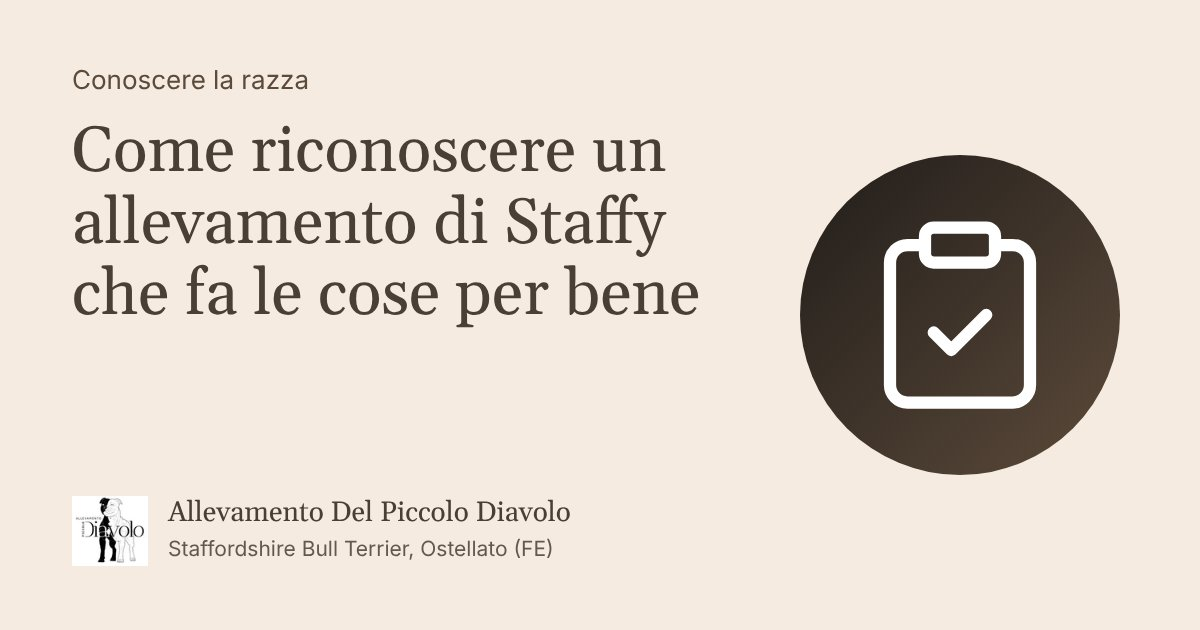
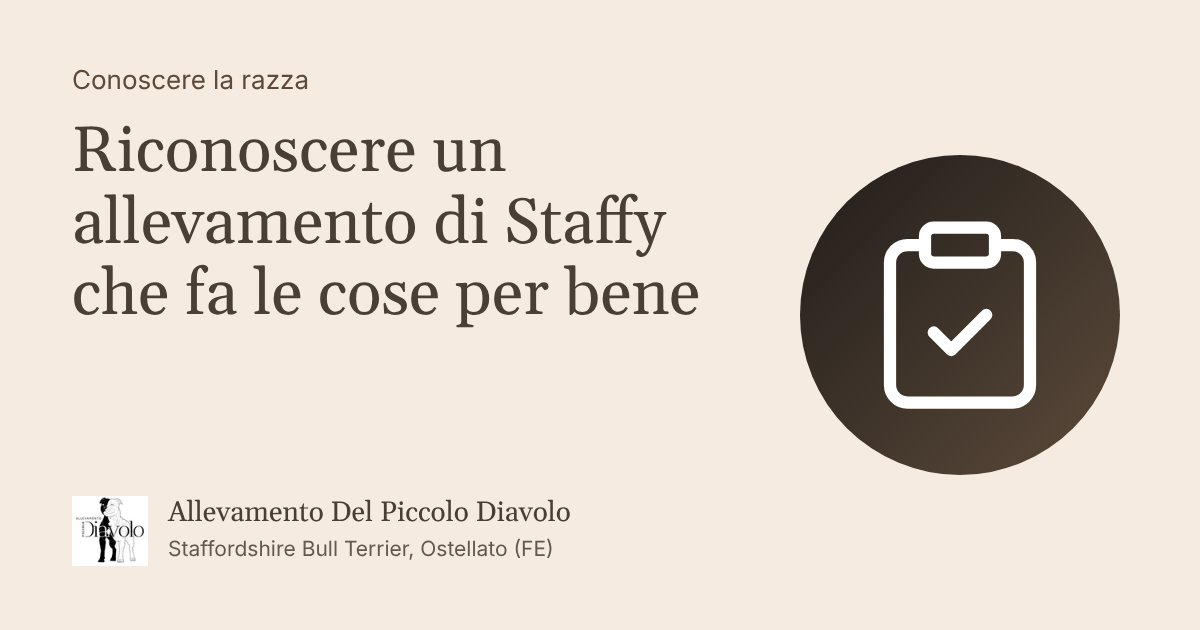
Guida allevamenti: titolo per Google più corto (IT «Riconoscere un allevamento di Staffy che fa le cose per bene», EN/DE allineati), schede di condivisione rifatte
Claude-Session: https://claude.ai/code/session_01Wpbf6UX9jwa1fzaGtM5hoN

Changed region(s): [[0.0617, 0.181, 0.555, 0.2714]]

diff --git a/content/it/come-scegliere-allevamento-staffordshire-bull-terrier.md b/content/it/come-scegliere-allevamento-staffordshire-bull-terrier.md
@@ -1,16 +1,16 @@
 ---
 title: "Come riconoscere un allevamento Staffordshire Bull Terrier che fa le cose per bene"
-titleSeo: "Come riconoscere un allevamento di Staffy che fa le cose per bene"
+titleSeo: "Riconoscere un allevamento di Staffy che fa le cose per bene"
 articolo: true
 translationKey: "come-scegliere"
 image: "/images/blog/cucciolata-erba.avif"
 og_image: "/images/og/schede/it/come-scegliere-allevamento-staffordshire-bull-terrier.jpg"
-og_image_alt: "Come riconoscere un allevamento di Staffy che fa le cose per bene — Allevamento Del Piccolo Diavolo"
+og_image_alt: "Riconoscere un allevamento di Staffy che fa le cose per bene — Allevamento Del Piccolo Diavolo"
 thumb: "/images/blog/icone/come-scegliere-allevamento-staffordshire-bull-terrier.webp"
 description: "Otto criteri per riconoscere un allevamento Staffordshire Bull Terrier serio, ognuno con il modo di verificarlo. Con i nostri documenti come esempio."
 slug: "come-scegliere-allevamento-staffordshire-bull-terrier"
 date: 2026-01-18
-lastmod: 2026-10-17
+lastmod: 2026-10-18
 ---
 
 

diff --git a/content/en/how-to-choose-a-staffordshire-bull-terrier-breeder.md b/content/en/how-to-choose-a-staffordshire-bull-terrier-breeder.md
@@ -1,16 +1,16 @@
 ---
 title: "How to recognise a Staffordshire Bull Terrier breeder who does things properly"
-titleSeo: "How to recognise a Staffy breeder who does things properly"
+titleSeo: "Recognising a Staffy breeder who does things properly"
 articolo: true
 translationKey: "come-scegliere"
 image: "/images/blog/cucciolata-erba.avif"
 og_image: "/images/og/schede/en/how-to-choose-a-staffordshire-bull-terrier-breeder.jpg"
-og_image_alt: "How to recognise a Staffy breeder who does things properly — Allevamento Del Piccolo Diavolo"
+og_image_alt: "Recognising a Staffy breeder who does things properly — Allevamento Del Piccolo Diavolo"
 thumb: "/images/blog/icone/come-scegliere-allevamento-staffordshire-bull-terrier.webp"
 description: "Eight criteria for recognising a serious Staffordshire Bull Terrier breeder, each with the way to verify it. With our own documents as the worked example."
 slug: "how-to-choose-a-staffordshire-bull-terrier-breeder"
 date: 2026-01-18
-lastmod: 2026-10-17
+lastmod: 2026-10-18
 ---
 
 

diff --git a/content/de/wie-waehlt-man-eine-staffordshire-bull-terrier-zucht.md b/content/de/wie-waehlt-man-eine-staffordshire-bull-terrier-zucht.md
@@ -1,16 +1,16 @@
 ---
 title: "Wie man eine Staffordshire Bull Terrier Zucht erkennt, die gut arbeitet"
-titleSeo: "Staffordshire Bull Terrier Zucht erkennen, die gut arbeitet"
+titleSeo: "Eine Staffy-Zucht erkennen, die gut arbeitet"
 articolo: true
 translationKey: "come-scegliere"
 image: "/images/blog/cucciolata-erba.avif"
 og_image: "/images/og/schede/de/wie-waehlt-man-eine-staffordshire-bull-terrier-zucht.jpg"
-og_image_alt: "Staffordshire Bull Terrier Zucht erkennen, die gut arbeitet — Allevamento Del Piccolo Diavolo"
+og_image_alt: "Eine Staffy-Zucht erkennen, die gut arbeitet — Allevamento Del Piccolo Diavolo"
 thumb: "/images/blog/icone/come-scegliere-allevamento-staffordshire-bull-terrier.webp"
 description: "Acht Kriterien, um eine seriöse Staffordshire Bull Terrier Zucht zu erkennen, jedes mit der Art, es zu überprüfen. Mit unseren eigenen Unterlagen als Beispiel."
 slug: "wie-waehlt-man-eine-staffordshire-bull-terrier-zucht"
 date: 2026-01-18
-lastmod: 2026-10-17
+lastmod: 2026-10-18
 ---
 
 
